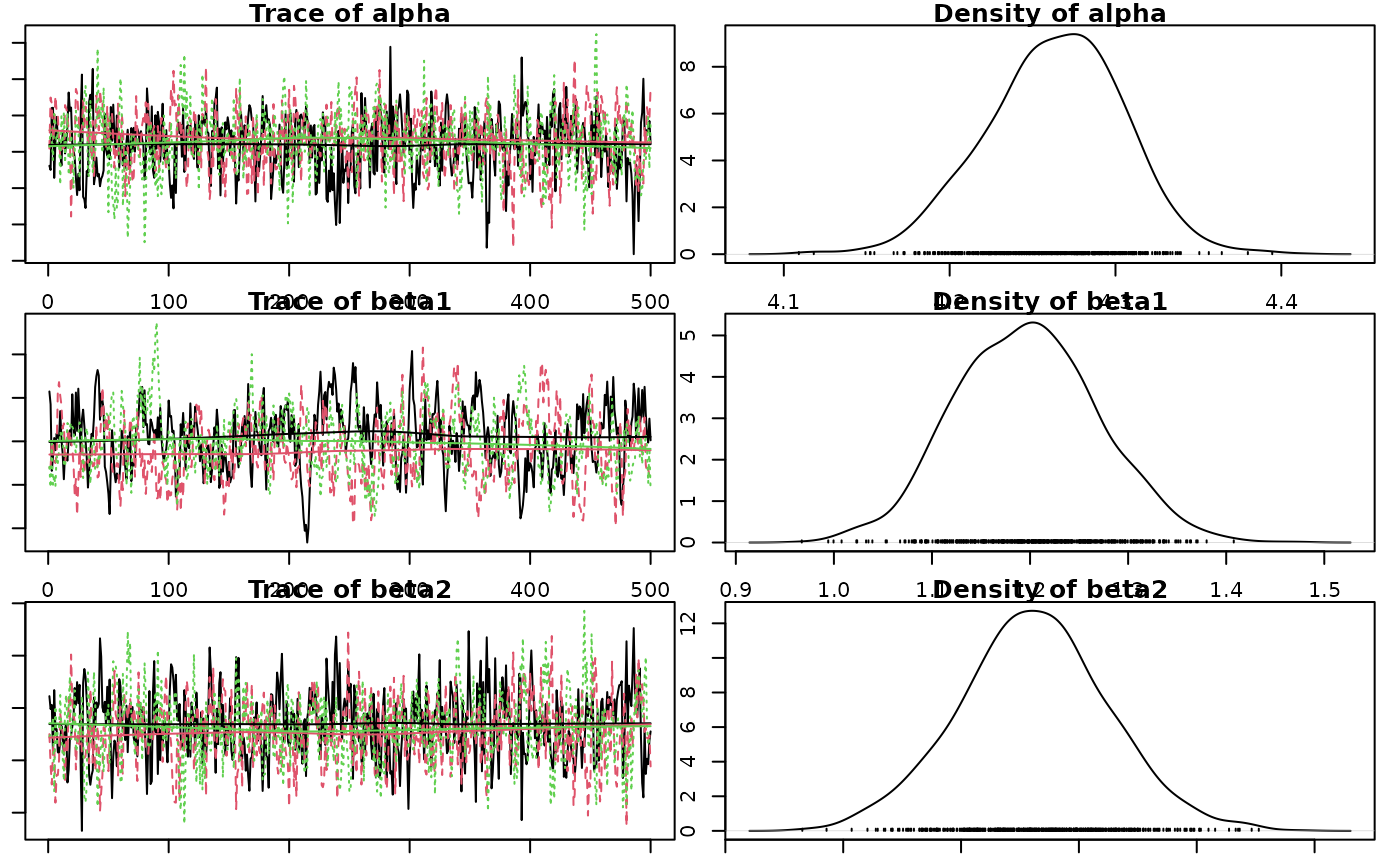
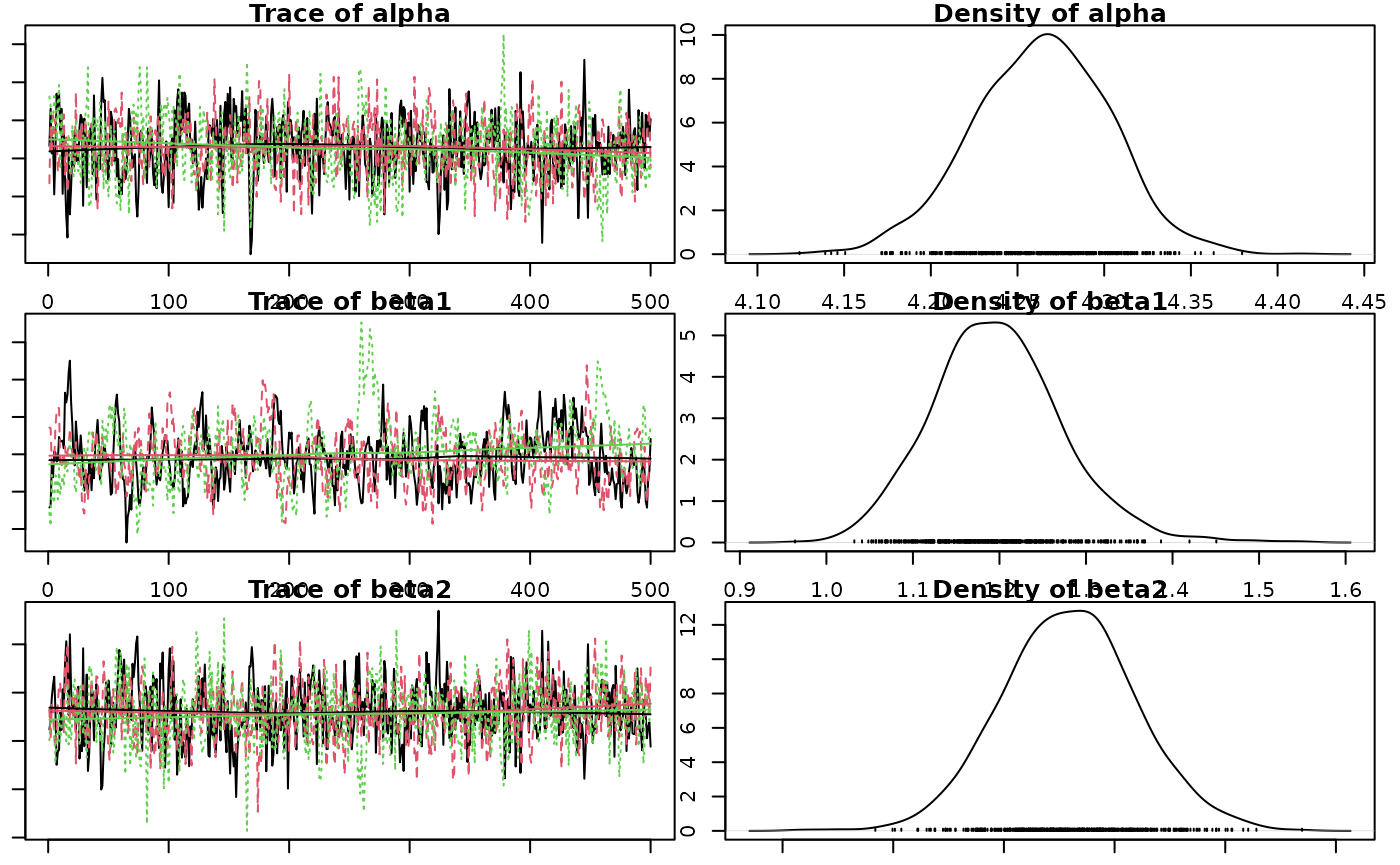
Deploying to gh-pages from @ poissonconsulting/jmbr@f1c6148d949a6b5b53c5d86f0780b7b7302f687b 🚀

diff --git a/articles/jmbr.html b/articles/jmbr.html
@@ -300,14 +300,14 @@ value and discarding all other values.</p>
 <span><span class="co">#&gt; <span style="color: #949494;"># A tibble: 1 × 8</span></span></span>
 <span><span class="co">#&gt;       n     K nchains niters nthin   ess  rhat converged</span></span>
 <span><span class="co">#&gt;   <span style="color: #949494; font-style: italic;">&lt;int&gt;</span> <span style="color: #949494; font-style: italic;">&lt;int&gt;</span>   <span style="color: #949494; font-style: italic;">&lt;int&gt;</span>  <span style="color: #949494; font-style: italic;">&lt;int&gt;</span> <span style="color: #949494; font-style: italic;">&lt;int&gt;</span> <span style="color: #949494; font-style: italic;">&lt;int&gt;</span> <span style="color: #949494; font-style: italic;">&lt;dbl&gt;</span> <span style="color: #949494; font-style: italic;">&lt;lgl&gt;</span>    </span></span>
-<span><span class="co">#&gt; <span style="color: #BCBCBC;">1</span>    40     6       3    500    10   256  1.02 TRUE</span></span>
+<span><span class="co">#&gt; <span style="color: #BCBCBC;">1</span>    40     6       3    500    10   201  1.03 TRUE</span></span>
 <span><span class="co">#&gt; Warning in value[[3L]](cond): beep() could not play the sound due to the following error:</span></span>
 <span><span class="co">#&gt; Error in play.default(x, rate, ...): no audio drivers are available</span></span>
 <span><span class="va">analysis</span> <span class="op">&lt;-</span> <span class="fu"><a href="https://rdrr.io/pkg/embr/man/reanalyse.html" class="external-link">reanalyse</a></span><span class="op">(</span><span class="va">analysis</span><span class="op">)</span></span>
 <span><span class="co">#&gt; <span style="color: #949494;"># A tibble: 1 × 8</span></span></span>
 <span><span class="co">#&gt;       n     K nchains niters nthin   ess  rhat converged</span></span>
 <span><span class="co">#&gt;   <span style="color: #949494; font-style: italic;">&lt;int&gt;</span> <span style="color: #949494; font-style: italic;">&lt;int&gt;</span>   <span style="color: #949494; font-style: italic;">&lt;int&gt;</span>  <span style="color: #949494; font-style: italic;">&lt;int&gt;</span> <span style="color: #949494; font-style: italic;">&lt;int&gt;</span> <span style="color: #949494; font-style: italic;">&lt;int&gt;</span> <span style="color: #949494; font-style: italic;">&lt;dbl&gt;</span> <span style="color: #949494; font-style: italic;">&lt;lgl&gt;</span>    </span></span>
-<span><span class="co">#&gt; <span style="color: #BCBCBC;">1</span>    40     6       3    500    10   256  1.02 TRUE</span></span>
+<span><span class="co">#&gt; <span style="color: #BCBCBC;">1</span>    40     6       3    500    10   201  1.03 TRUE</span></span>
 <span><span class="co">#&gt; Warning in value[[3L]](cond): beep() could not play the sound due to the following error:</span></span>
 <span><span class="co">#&gt; Error in play.default(x, rate, ...): no audio drivers are available</span></span></code></pre></div>
 <p><strong>Analysis Table:</strong></p>
@@ -357,12 +357,12 @@ between- and within-chain estimates for model parameters.
 <span><span class="co">#&gt; <span style="color: #949494;"># A tibble: 6 × 7</span></span></span>
 <span><span class="co">#&gt;   term        estimate     sd  zscore   lower   upper   pvalue</span></span>
 <span><span class="co">#&gt;   <span style="color: #949494; font-style: italic;">&lt;term&gt;</span>         <span style="color: #949494; font-style: italic;">&lt;dbl&gt;</span>  <span style="color: #949494; font-style: italic;">&lt;dbl&gt;</span>   <span style="color: #949494; font-style: italic;">&lt;dbl&gt;</span>   <span style="color: #949494; font-style: italic;">&lt;dbl&gt;</span>   <span style="color: #949494; font-style: italic;">&lt;dbl&gt;</span>    <span style="color: #949494; font-style: italic;">&lt;dbl&gt;</span></span></span>
-<span><span class="co">#&gt; <span style="color: #BCBCBC;">1</span> alpha         4.27   0.041<span style="text-decoration: underline;">3</span> 103.     4.18    4.34   0.000<span style="text-decoration: underline;">666</span></span></span>
-<span><span class="co">#&gt; <span style="color: #BCBCBC;">2</span> beta1         1.20   0.072<span style="text-decoration: underline;">5</span>  16.5    1.06    1.34   0.000<span style="text-decoration: underline;">666</span></span></span>
-<span><span class="co">#&gt; <span style="color: #BCBCBC;">3</span> beta2        -<span style="color: #BB0000;">0.019</span><span style="color: #BB0000; text-decoration: underline;">3</span> 0.031<span style="text-decoration: underline;">7</span>  -<span style="color: #BB0000;">0.606</span> -<span style="color: #BB0000;">0.082</span><span style="color: #BB0000; text-decoration: underline;">3</span>  0.044<span style="text-decoration: underline;">6</span> 0.523   </span></span>
-<span><span class="co">#&gt; <span style="color: #BCBCBC;">4</span> beta3        -<span style="color: #BB0000;">0.274</span>  0.037<span style="text-decoration: underline;">5</span>  -<span style="color: #BB0000;">7.30</span>  -<span style="color: #BB0000;">0.350</span>  -<span style="color: #BB0000;">0.201</span>  0.000<span style="text-decoration: underline;">666</span></span></span>
-<span><span class="co">#&gt; <span style="color: #BCBCBC;">5</span> log_sAnnual  -<span style="color: #BB0000;">2.21</span>   0.311   -<span style="color: #BB0000;">7.24</span>  -<span style="color: #BB0000;">2.96</span>   -<span style="color: #BB0000;">1.74</span>   0.000<span style="text-decoration: underline;">666</span></span></span>
-<span><span class="co">#&gt; <span style="color: #BCBCBC;">6</span> sAnnual       0.110  0.030<span style="text-decoration: underline;">8</span>   3.57   0.051<span style="text-decoration: underline;">6</span>  0.175  0.000<span style="text-decoration: underline;">666</span></span></span></code></pre></div>
+<span><span class="co">#&gt; <span style="color: #BCBCBC;">1</span> alpha         4.26   0.039<span style="text-decoration: underline;">2</span> 109.     4.18    4.34   0.000<span style="text-decoration: underline;">666</span></span></span>
+<span><span class="co">#&gt; <span style="color: #BCBCBC;">2</span> beta1         1.19   0.076<span style="text-decoration: underline;">3</span>  15.7    1.06    1.36   0.000<span style="text-decoration: underline;">666</span></span></span>
+<span><span class="co">#&gt; <span style="color: #BCBCBC;">3</span> beta2        -<span style="color: #BB0000;">0.020</span><span style="color: #BB0000; text-decoration: underline;">7</span> 0.030<span style="text-decoration: underline;">3</span>  -<span style="color: #BB0000;">0.684</span> -<span style="color: #BB0000;">0.078</span><span style="color: #BB0000; text-decoration: underline;">6</span>  0.040<span style="text-decoration: underline;">3</span> 0.472   </span></span>
+<span><span class="co">#&gt; <span style="color: #BCBCBC;">4</span> beta3        -<span style="color: #BB0000;">0.272</span>  0.038<span style="text-decoration: underline;">9</span>  -<span style="color: #BB0000;">7.04</span>  -<span style="color: #BB0000;">0.360</span>  -<span style="color: #BB0000;">0.205</span>  0.000<span style="text-decoration: underline;">666</span></span></span>
+<span><span class="co">#&gt; <span style="color: #BCBCBC;">5</span> log_sAnnual  -<span style="color: #BB0000;">2.23</span>   0.328   -<span style="color: #BB0000;">6.89</span>  -<span style="color: #BB0000;">2.96</span>   -<span style="color: #BB0000;">1.74</span>   0.000<span style="text-decoration: underline;">666</span></span></span>
+<span><span class="co">#&gt; <span style="color: #BCBCBC;">6</span> sAnnual       0.108  0.031<span style="text-decoration: underline;">4</span>   3.48   0.051<span style="text-decoration: underline;">7</span>  0.175  0.000<span style="text-decoration: underline;">666</span></span></span></code></pre></div>
 <p>The estimate is the <strong>median</strong> by default.</p>
 <p>The zscore is <span class="math inline">\(mean / sd\)</span>.</p>
 <div class="sourceCode" id="cb12"><pre class="downlit sourceCode r">
@@ -370,12 +370,12 @@ between- and within-chain estimates for model parameters.
 <span><span class="co">#&gt; <span style="color: #949494;"># A tibble: 6 × 5</span></span></span>
 <span><span class="co">#&gt;   term        estimate   lower   upper svalue</span></span>
 <span><span class="co">#&gt;   <span style="color: #949494; font-style: italic;">&lt;term&gt;</span>         <span style="color: #949494; font-style: italic;">&lt;dbl&gt;</span>   <span style="color: #949494; font-style: italic;">&lt;dbl&gt;</span>   <span style="color: #949494; font-style: italic;">&lt;dbl&gt;</span>  <span style="color: #949494; font-style: italic;">&lt;dbl&gt;</span></span></span>
-<span><span class="co">#&gt; <span style="color: #BCBCBC;">1</span> alpha         4.27    4.18    4.34   10.6  </span></span>
-<span><span class="co">#&gt; <span style="color: #BCBCBC;">2</span> beta1         1.20    1.06    1.34   10.6  </span></span>
-<span><span class="co">#&gt; <span style="color: #BCBCBC;">3</span> beta2        -<span style="color: #BB0000;">0.019</span><span style="color: #BB0000; text-decoration: underline;">3</span> -<span style="color: #BB0000;">0.082</span><span style="color: #BB0000; text-decoration: underline;">3</span>  0.044<span style="text-decoration: underline;">6</span>  0.935</span></span>
-<span><span class="co">#&gt; <span style="color: #BCBCBC;">4</span> beta3        -<span style="color: #BB0000;">0.274</span>  -<span style="color: #BB0000;">0.350</span>  -<span style="color: #BB0000;">0.201</span>  10.6  </span></span>
-<span><span class="co">#&gt; <span style="color: #BCBCBC;">5</span> log_sAnnual  -<span style="color: #BB0000;">2.21</span>   -<span style="color: #BB0000;">2.96</span>   -<span style="color: #BB0000;">1.74</span>   10.6  </span></span>
-<span><span class="co">#&gt; <span style="color: #BCBCBC;">6</span> sAnnual       0.110   0.051<span style="text-decoration: underline;">6</span>  0.175  10.6</span></span></code></pre></div>
+<span><span class="co">#&gt; <span style="color: #BCBCBC;">1</span> alpha         4.26    4.18    4.34    10.6 </span></span>
+<span><span class="co">#&gt; <span style="color: #BCBCBC;">2</span> beta1         1.19    1.06    1.36    10.6 </span></span>
+<span><span class="co">#&gt; <span style="color: #BCBCBC;">3</span> beta2        -<span style="color: #BB0000;">0.020</span><span style="color: #BB0000; text-decoration: underline;">7</span> -<span style="color: #BB0000;">0.078</span><span style="color: #BB0000; text-decoration: underline;">6</span>  0.040<span style="text-decoration: underline;">3</span>   1.08</span></span>
+<span><span class="co">#&gt; <span style="color: #BCBCBC;">4</span> beta3        -<span style="color: #BB0000;">0.272</span>  -<span style="color: #BB0000;">0.360</span>  -<span style="color: #BB0000;">0.205</span>   10.6 </span></span>
+<span><span class="co">#&gt; <span style="color: #BCBCBC;">5</span> log_sAnnual  -<span style="color: #BB0000;">2.23</span>   -<span style="color: #BB0000;">2.96</span>   -<span style="color: #BB0000;">1.74</span>    10.6 </span></span>
+<span><span class="co">#&gt; <span style="color: #BCBCBC;">6</span> sAnnual       0.108   0.051<span style="text-decoration: underline;">7</span>  0.175   10.6</span></span></code></pre></div>
 <p>The s-value is the <strong>suprisal</strong> value, which is a
 measure of directionality with respect to zero.</p>
 <p>The s-value is zero (unsurprising) when <em>p-value</em> = 1.0 and
